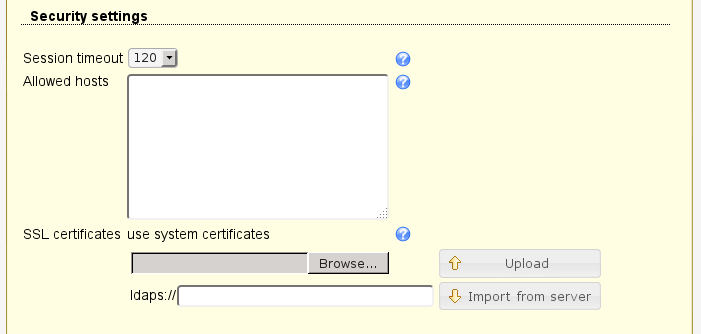
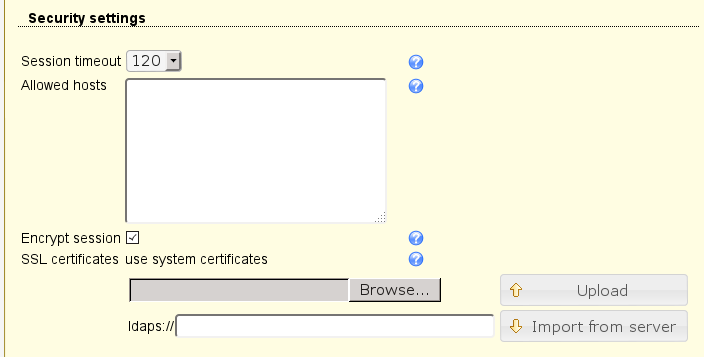
make session encryption optional

Changed region(s): [[0.0, 0.1198, 0.9886, 1.0], [0.3295, 0.0599, 0.9886, 0.0898], [0.0, 0.0299, 0.2996, 0.0898]]

diff --git a/lam/templates/config/mainmanage.php b/lam/templates/config/mainmanage.php
@@ -104,6 +104,14 @@ if (isset($_POST['submitFormData'])) {
 	}
 	else $allowedHosts = "";
 	$cfg->allowedHosts = $allowedHosts;
+	// set session encryption
+	if (function_exists('mcrypt_create_iv')) {
+		$encryptSession = 'false';
+		if (isset($_POST['encryptSession']) && ($_POST['encryptSession'] == 'on')) {
+			$encryptSession = 'true';
+		}
+		$cfg->encryptSession = $encryptSession;
+	}
 	// set log level
 	$cfg->logLevel = $_POST['logLevel'];
 	// set log destination
@@ -263,6 +271,10 @@ $securityTable = new htmlTable();
 $options = array(5, 10, 20, 30, 60, 90, 120, 240);
 $securityTable->addElement(new htmlTableExtendedSelect('sessionTimeout', $options, array($cfg->sessionTimeout), _("Session timeout"), '238'), true);
 $securityTable->addElement(new htmlTableExtendedInputTextarea('allowedHosts', implode("\n", explode(",", $cfg->allowedHosts)), '30', '7', _("Allowed hosts"), '241'), true);
+$encryptSession = ($cfg->encryptSession === 'true');
+$encryptSessionBox = new htmlTableExtendedInputCheckbox('encryptSession', $encryptSession, _('Encrypt session'), '245');
+$encryptSessionBox->setIsEnabled(function_exists('mcrypt_create_iv'));
+$securityTable->addElement($encryptSessionBox, true);
 // SSL certificate
 $securityTable->addElement(new htmlOutputText(_('SSL certificates')));
 $sslMethod = _('use system certificates');

diff --git a/lam/templates/login.php b/lam/templates/login.php
@@ -125,14 +125,15 @@ $_SESSION['header'] .= "<meta http-equiv=\"pragma\" content=\"no-cache\">\n		<me
 /**
 * Displays the login window.
 *
-* @param object $config_object current active configuration
+* @param LAMConfig $config_object current active configuration
+* @param LAMCfgMain $cfgMain main configuration
 */
-function display_LoginPage($config_object) {
+function display_LoginPage($config_object, $cfgMain) {
 	logNewMessage(LOG_DEBUG, "Display login page");
 	global $error_message;
 	// generate 256 bit key and initialization vector for user/passwd-encryption
 	// check if we can use /dev/urandom otherwise use rand()
-	if(function_exists('mcrypt_create_iv')) {
+	if(function_exists('mcrypt_create_iv') && ($cfgMain->encryptSession == 'true')) {
 		$key = @mcrypt_create_iv(32, MCRYPT_DEV_URANDOM);
 		if (! $key) {
 			srand((double)microtime()*1234567);
@@ -651,5 +652,5 @@ if(!empty($_POST['checklogin'])) {
 }
 
 //displays the login window
-display_LoginPage($_SESSION["config"]);
+display_LoginPage($_SESSION["config"], $_SESSION["cfgMain"]);
 ?>
